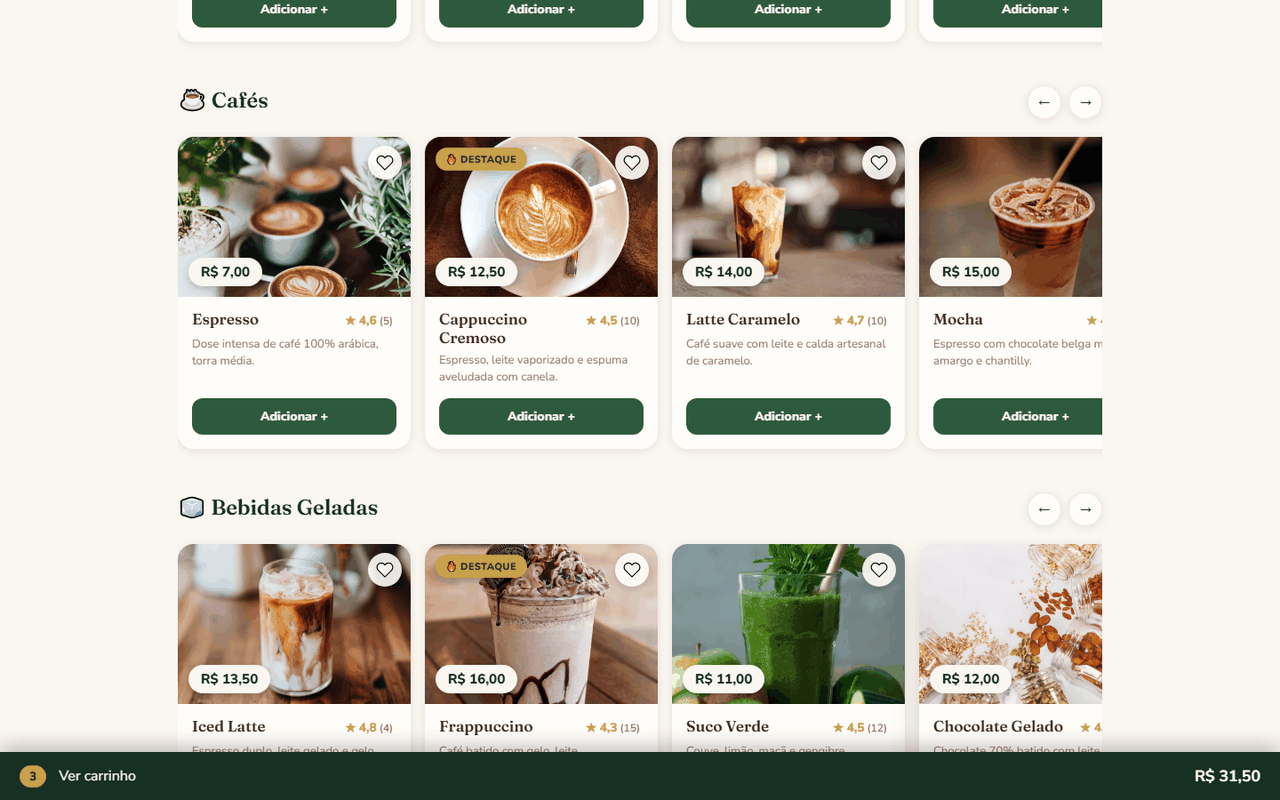
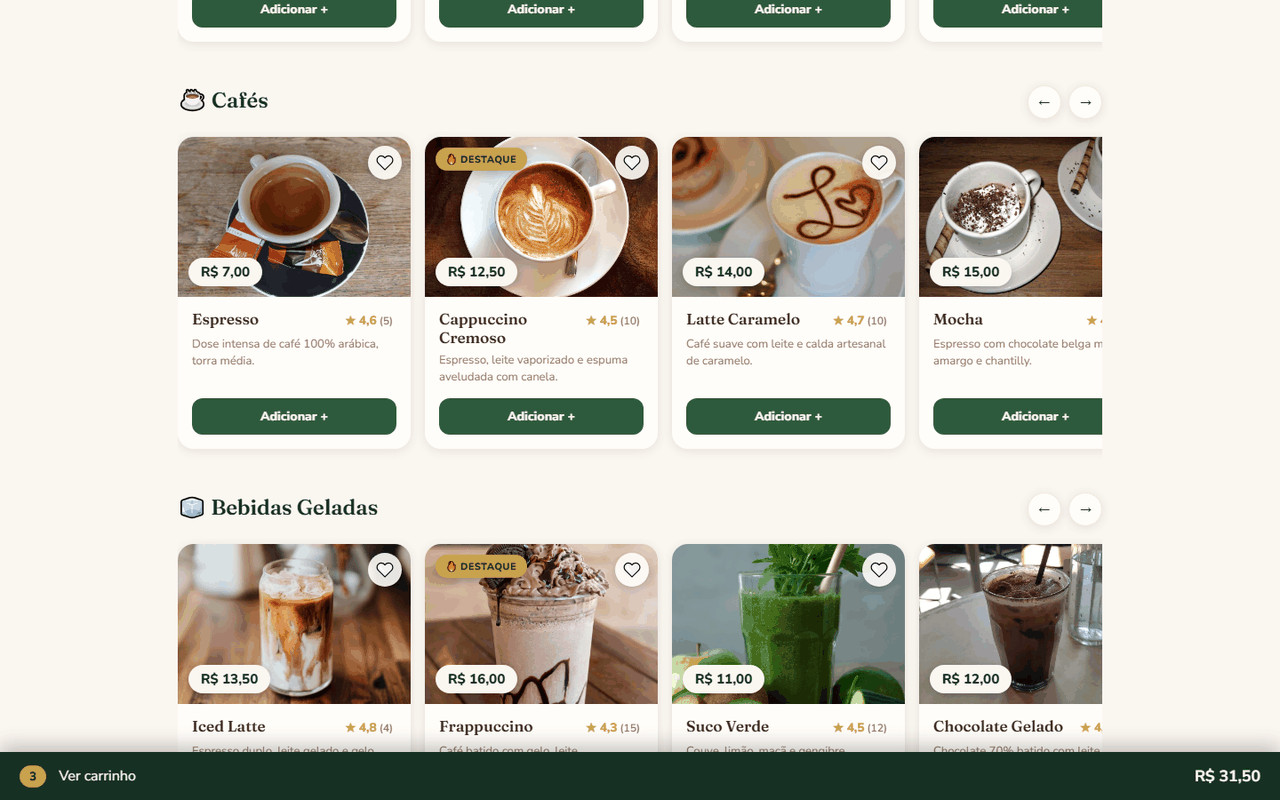
fix: replace product photos that showed the wrong item
Eleven menu photos did not match their product: Bolo de Cenoura was a
pink funfetti cake, Mocha and Latte Caramelo were iced drinks (both are
hot coffees), Chocolate Gelado was jars of nuts and seeds, Espresso and
Cafe Coado showed latte art, Empada de Frango was a lattice fruit pie,
the ham and cheese croissant was a plain sugared one, and the three
combos showed unrelated plates (egg toast, a brunch table, fine dining
with wine). Replaced them with freely licensed Wikimedia Commons photos
(same filenames, so the seed mapping is unchanged), credited each one
in the README and retook the menu and cart screenshots.

diff --git a/README.md b/README.md
@@ -111,7 +111,19 @@ Built with AI coding assistants as part of my workflow.
 
 ## Credits
 
-- Product photos from Unsplash, except the pão de queijo photo: ["Cheesebread"](https://commons.wikimedia.org/wiki/File:Cheesebread.jpg) by Murilo Manzini, [CC BY-SA 4.0](https://creativecommons.org/licenses/by-sa/4.0/), via Wikimedia Commons (resized).
+- Product photos from Unsplash, except the ones below, which come from Wikimedia Commons (resized, some cropped):
+  - Espresso: ["Cup of espresso 02"](https://commons.wikimedia.org/wiki/File:Cup_of_espresso_02.jpg) by Kritzolina, [CC BY-SA 4.0](https://creativecommons.org/licenses/by-sa/4.0/)
+  - Latte Caramelo: ["Vegan Caramel Latte (5221801524)"](https://commons.wikimedia.org/wiki/File:Vegan_Caramel_Latte_%285221801524%29.jpg) by Jennifer from Vancouver, Canada, [CC BY 2.0](https://creativecommons.org/licenses/by/2.0/)
+  - Mocha: ["Mocha (4355110522)"](https://commons.wikimedia.org/wiki/File:Mocha_%284355110522%29.jpg) by Karen and Brad Emerson, [CC BY 2.0](https://creativecommons.org/licenses/by/2.0/)
+  - Café Coado da Casa: ["Café coado"](https://commons.wikimedia.org/wiki/File:Caf%C3%A9_coado.jpg) by Melsj, [CC BY-SA 4.0](https://creativecommons.org/licenses/by-sa/4.0/)
+  - Chocolate Gelado: ["Iced Chocolate - T @ Hove 2023-09-07"](https://commons.wikimedia.org/wiki/File:Iced_Chocolate_-_T_@_Hove_2023-09-07.jpg) by Andy Li, [CC0 1.0](https://creativecommons.org/publicdomain/zero/1.0/)
+  - Pão de Queijo: ["Cheesebread"](https://commons.wikimedia.org/wiki/File:Cheesebread.jpg) by Murilo Manzini, [CC BY-SA 4.0](https://creativecommons.org/licenses/by-sa/4.0/)
+  - Croissant de Presunto e Queijo: ["Ham and cheese croissant 1119159785"](https://commons.wikimedia.org/wiki/File:Ham_and_cheese_croissant_1119159785.jpg) by Charles Haynes, [CC BY-SA 2.0](https://creativecommons.org/licenses/by-sa/2.0/)
+  - Empada de Frango: ["Empadas de frango Vila Isabel Rio de Janeiro Brasil"](https://commons.wikimedia.org/wiki/File:Empadas_de_frango_Vila_Isabel_Rio_de_Janeiro_Brasil.jpg) by Eduardo P, [CC BY-SA 3.0](https://creativecommons.org/licenses/by-sa/3.0/)
+  - Bolo de Cenoura: ["Bolo de Cenoura, 08-12-2020"](https://commons.wikimedia.org/wiki/File:Bolo_de_Cenoura,_08-12-2020.jpg) by Pedro Toniazzo Terres, [CC BY-SA 4.0](https://creativecommons.org/licenses/by-sa/4.0/)
+  - Combo da Manhã: ["Pao de queijo com cafe"](https://commons.wikimedia.org/wiki/File:Pao_de_queijo_com_cafe.jpg) by nwerneck, [CC BY 3.0](https://creativecommons.org/licenses/by/3.0/)
+  - Combo da Tarde: ["Carrot cake, Eppstein"](https://commons.wikimedia.org/wiki/File:Carrot_cake,_Eppstein.jpg) by Gerda Arendt, [CC BY-SA 4.0](https://creativecommons.org/licenses/by-sa/4.0/)
+  - Combo Duplo: ["Coffee Caramel Croissant, Nutella Cookie, Flat White, Latte - Bee May Bakery 2026-09-29"](https://commons.wikimedia.org/wiki/File:Coffee_Caramel_Croissant,_Nutella_Cookie,_Flat_White,_Latte_-_Bee_May_Bakery_2026-09-29.jpg) by Andy Li, [CC0 1.0](https://creativecommons.org/publicdomain/zero/1.0/)
 - Fonts: Fraunces and Nunito Sans, from Google Fonts.
 
 ## Versão em português
